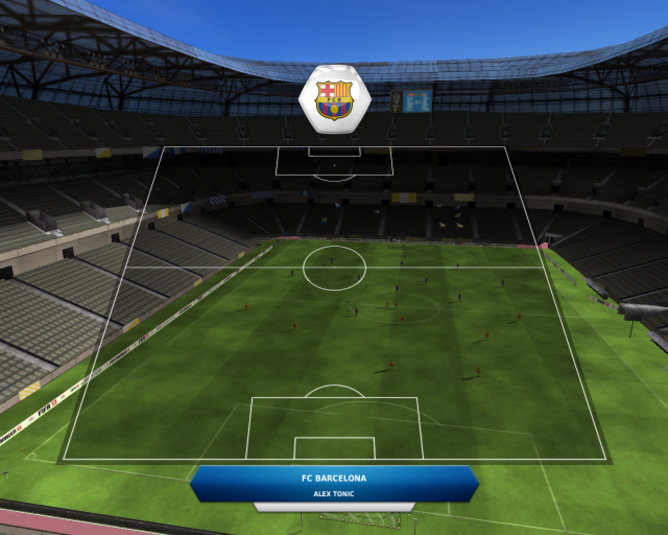
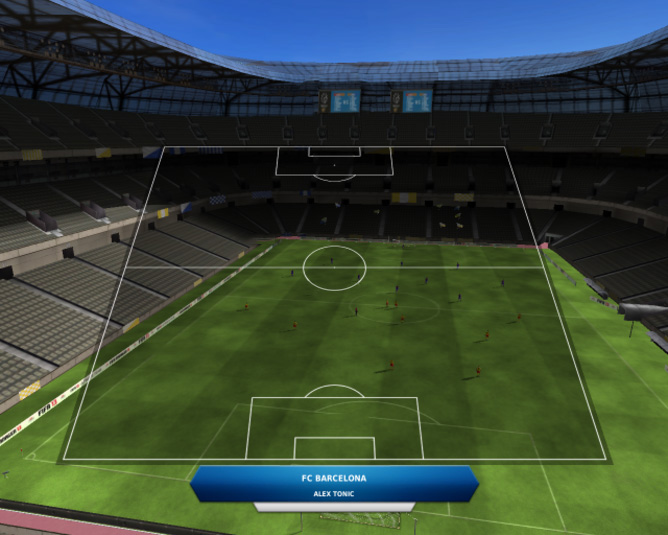
Added animation

Changed region(s): [[0.4491, 0.1196, 0.5689, 0.2692]]

diff --git a/js/field.js b/js/field.js
@@ -29,8 +29,17 @@ function Field(elem) {
     var screenScew = 0.02;
     var k = {x: screenWidth / fieldWidth, y: screenHeight / fieldLength};
 
-    this.screenToField = function (position) {
+    this.screenToField = function (screenposition) {
+        //переходим в координаты от центра экрана
+        var fromscreencenter = {x: screenposition.x - screenCenter.x, y: screenposition.y - screenCenter.y};
 
+        // переходим в координаты на поле
+        var infield = {x: fromscreencenter.x / k.x, y: fromscreencenter.y / k.y};
+
+        //отменяем перспективу
+        infield.x /= (1 + infield.y * screenScew);
+
+        return {x: infield.x + fieldCenter.x, y: infield.y + fieldCenter.y};
     }
 
     /**

diff --git a/js/place.js b/js/place.js
@@ -33,7 +33,7 @@ function Place(position) {
      * Обновляем элемент-представление
      */
     this.updateView = function () {
-        this.elem.css({"left": this.onScreen.x - size/2, "top": this.onScreen.y-size/2});
+        this.elem.animate({"left": this.onScreen.x - size/2, "top": this.onScreen.y-size/2},1000);
         this.elem.html(this.name);
     }
 
@@ -42,6 +42,6 @@ function Place(position) {
      * todo: написать
      */
     this.onDrag = function () {
-
+        this.elem.html
     }
 }
